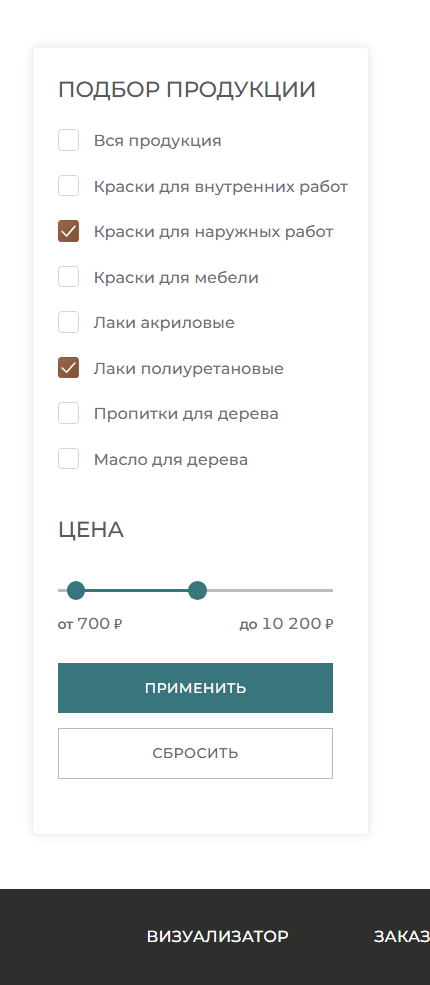
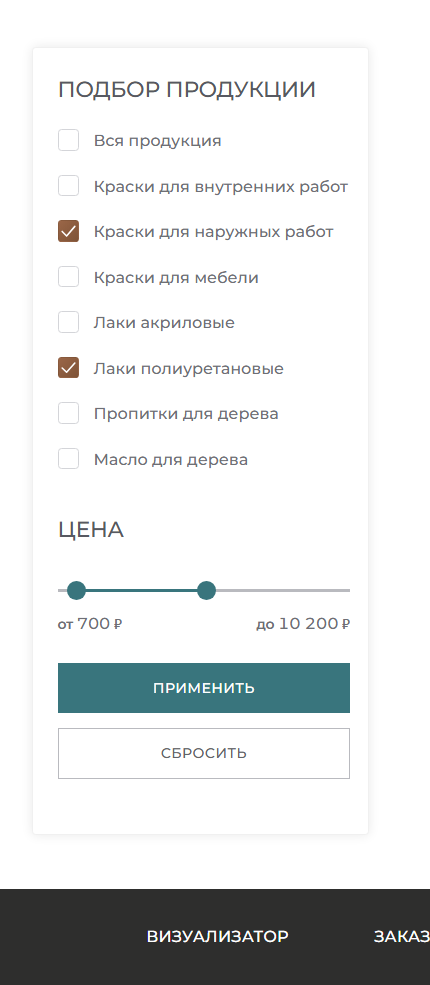
Каталог: поле карточки фильтра справа 20 px без отдельного зазора у кнопок

diff --git a/02_верстка/rev-3b7e1c9d/index.html b/02_верстка/rev-3b7e1c9d/index.html
@@ -39,19 +39,19 @@
 <body>
 <div class="wrap">
   <h1>Каталог — карточка фильтра</h1>
-  <p class="sub">Две правки: (1) при одной странице товаров под карточкой фильтра не было отступа до подвала; (2) внутреннее поле справа было меньше левого — кнопки упирались в кромку. Скриншоты headless Chrome, страница проскроллена к подвалу.</p>
+  <p class="sub">Две правки: (1) при одной странице товаров под карточкой фильтра не было отступа до подвала; (2) внутреннее поле справа было 16 px при 28 слева — кнопки упирались в кромку. Скриншоты headless Chrome, страница проскроллена к подвалу.</p>
 
   <section>
     <h2>1. Карточка фильтра, окно 2560×1300</h2>
-    <p class="where">Фильтр: «Краски для наружных работ» + «Лаки полиуретановые», 2 товара — пагинации нет. В макете М15 карточка 224..601, кнопки и ползунок 252..562 (зазор 39 до кромки), подписи доходят до 580.</p>
+    <p class="where">Фильтр: «Краски для наружных работ» + «Лаки полиуретановые», 2 товара — пагинации нет. В макете М15 карточка 224..601, поле слева 28, справа для подписей 19.</p>
     <div class="pair">
       <figure class="shot">
         <img src="card-2560-before.png" alt="Карточка фильтра, 2560, до правки">
-        <figcaption><span class="tag before">Было</span>Кнопки в 16 px от кромки, низ карточки в 12 px от подвала.</figcaption>
+        <figcaption><span class="tag before">Было</span>Поле справа 16 px, кнопки — в 15 px от кромки, низ карточки в 12 px от подвала.</figcaption>
       </figure>
       <figure class="shot">
         <img src="card-2560-after.png" alt="Карточка фильтра, 2560, после правки">
-        <figcaption><span class="tag after">Стало</span>Кнопки в 36 px от кромки (39 в макете), под карточкой 54 px до подвала.</figcaption>
+        <figcaption><span class="tag after">Стало</span>Поле справа 20 px (в макете 19), кнопки и ползунок — во всю ширину карточки, под карточкой 54 px до подвала.</figcaption>
       </figure>
     </div>
   </section>
@@ -73,7 +73,7 @@
 
   <section>
     <h2>3. Окно 1920×1080</h2>
-    <p class="where">На 1920 правый отступ карточки тоже был 15 px при 20 слева — на глаз кнопки стояли вплотную к кромке.</p>
+    <p class="where">На 1920 правый отступ карточки тоже был 15 px при 26 слева.</p>
     <div class="duo">
       <figure class="shot">
         <img src="page-1920-before.png" alt="Каталог, 1920, до правки">
@@ -81,7 +81,7 @@
       </figure>
       <figure class="shot">
         <img src="page-1920-after.png" alt="Каталог, 1920, после правки">
-        <figcaption><span class="tag after">Стало</span>Под карточкой 41 px, кнопки отодвинуты от кромки.</figcaption>
+        <figcaption><span class="tag after">Стало</span>Под карточкой 41 px, поле справа 18 px.</figcaption>
       </figure>
     </div>
   </section>
@@ -90,12 +90,13 @@
     <h2>Что именно поменялось</h2>
     <table>
       <tr><th>Место</th><th>Было</th><th>Стало</th></tr>
-      <tr><td>Поле карточки справа (2560)</td><td class="num">16 px</td><td class="num">21 px (макет: 21)</td></tr>
-      <tr><td>Зазор кнопок и ползунка до кромки (2560)</td><td class="num">16 px</td><td class="num">39 px (макет: 39)</td></tr>
+      <tr><td>Поле карточки справа (2560)</td><td class="num">16 px</td><td class="num">20 px (макет: 19)</td></tr>
+      <tr><td>Отдельный зазор у кнопок и ползунка</td><td class="num">нет</td><td class="num">нет — во всю ширину карточки</td></tr>
       <tr><td>Длинные подписи на 2560</td><td class="num">1 строка</td><td class="num">1 строка (8 из 8)</td></tr>
       <tr><td>Низ фильтра → подвал (2560, одна страница)</td><td class="num">12 px</td><td class="num">54 px (60 в масштабе 1:1)</td></tr>
       <tr><td>Низ фильтра → подвал (1920, одна страница)</td><td class="num">12 px</td><td class="num">41 px</td></tr>
     </table>
+    <p class="note">Правое поле не дотягивает до левого 28 намеренно: в макете оно тоже меньше (19 против 28), а у нашего шрифта подпись «Краски для внутренних работ» на ~6 px шире макетной. При 22 px она уже рвётся на две строки, поэтому максимум — 20.</p>
     <p class="note">Отступ снизу равен нижнему полю полосы пагинации: на 2560 — 71 px при масштабе 1:1, ниже — 40..61 px. Когда товаров больше одной страницы, пагинация на месте и ничего не меняется.</p>
   </section>
 
@@ -107,9 +108,9 @@
       <tr><td>Подписи чекбоксов на 2560 (innerWidth 2544)</td><td class="ok">8 из 8 в одну строку</td></tr>
       <tr><td>Ширины 1281 / 1280 / 1024 / 768 / 390</td><td class="ok">горизонтальная панель фильтра не затронута, переполнения нет</td></tr>
       <tr><td>Статическая сборка (pages/catalog.html)</td><td class="ok">то же, что в WordPress</td></tr>
-      <tr><td>Прод weiss-color.vercel.app</td><td class="ok">совпадает с локальной сборкой (кнопки 300..594, карточка 273..632)</td></tr>
+      <tr><td>Прод weiss-color.vercel.app</td><td class="ok">стили совпадают с локальной сборкой</td></tr>
     </table>
-    <p class="note">Правило в <code>css/catalog.css</code>: <code>.catalog:last-child</code> (нижний отступ без пагинации) и <code>--filter-gutter</code> внутри <code>.filter</code> (зазор кнопок и ползунка).</p>
+    <p class="note">Правило в <code>css/catalog.css</code>: <code>.catalog:last-child</code> — нижний отступ, когда пагинации нет; поле карточки — в <code>.filter</code>.</p>
   </section>
 </div>
 </body>

diff --git a/02_верстка/css/catalog.css b/02_верстка/css/catalog.css
@@ -547,13 +547,12 @@ body.catalog-page main {
 .filter {
   align-self: start;
   margin-top: clamp(0px, 1.29vw, 33px);
-  /* Макет М15: карточка 224..601. Слева 28, справа 21: длинная подпись
-     «Краски для внутренних работ» доходит до x≈580, то есть почти до кромки,
-     и в одну строку. Кнопки и ползунок уже — 252..562, у них свой зазор 39
-     (см. --filter-gutter ниже). Раньше справа было 16 — подписи влезали, но
-     кнопки выглядели шире карточки; 39 — наоборот, рвало подписи на две строки. */
-  --filter-gutter: clamp(0px, 0.7vw, 18px);
-  padding: clamp(24px, 1.25vw, 32px) clamp(16px, 0.82vw, 21px) clamp(40px, 2.42vw, 62px) clamp(20px, 1.09vw, 28px);
+  /* Макет М15: карточка 224..601, поле 28 слева. Справа в макете 19 — ровно
+     столько, чтобы подпись «Краски для внутренних работ» встала в строку.
+     У нашего шрифта та же подпись шире ~6 px, поэтому берём 20: ещё один шаг
+     вправо — и она рвётся на две строки. Ползунок, цены и кнопки идут во всю
+     ширину карточки, отдельного зазора у них нет. */
+  padding: clamp(24px, 1.25vw, 32px) clamp(16px, 0.78vw, 20px) clamp(40px, 2.42vw, 62px) clamp(20px, 1.09vw, 28px);
   border: 1px solid #f0f0f0;
   border-radius: 4px;
   background: var(--color-white);
@@ -786,22 +785,6 @@ body.catalog-page main {
   border-color: var(--color-brown);
   color: var(--color-brown);
   box-shadow: var(--shadow-hover-outline);
-}
-
-/* Колонка фильтра: ползунок, цены и кнопки заканчиваются на кнопочной
-   колонке макета (252..562 при карточке 224..601), а подписи чекбоксов идут
-   шире неё до края карточки. До 1280 фильтр — горизонтальная панель,
-   там этот зазор не нужен. */
-@media (min-width: 1281px) {
-  .range,
-  .filter__prices {
-    margin-right: var(--filter-gutter);
-  }
-
-  .filter__apply,
-  .filter__reset {
-    width: calc(100% - var(--filter-gutter));
-  }
 }
 
 /* --- Адаптив (проверяем 360–1024) --- */
